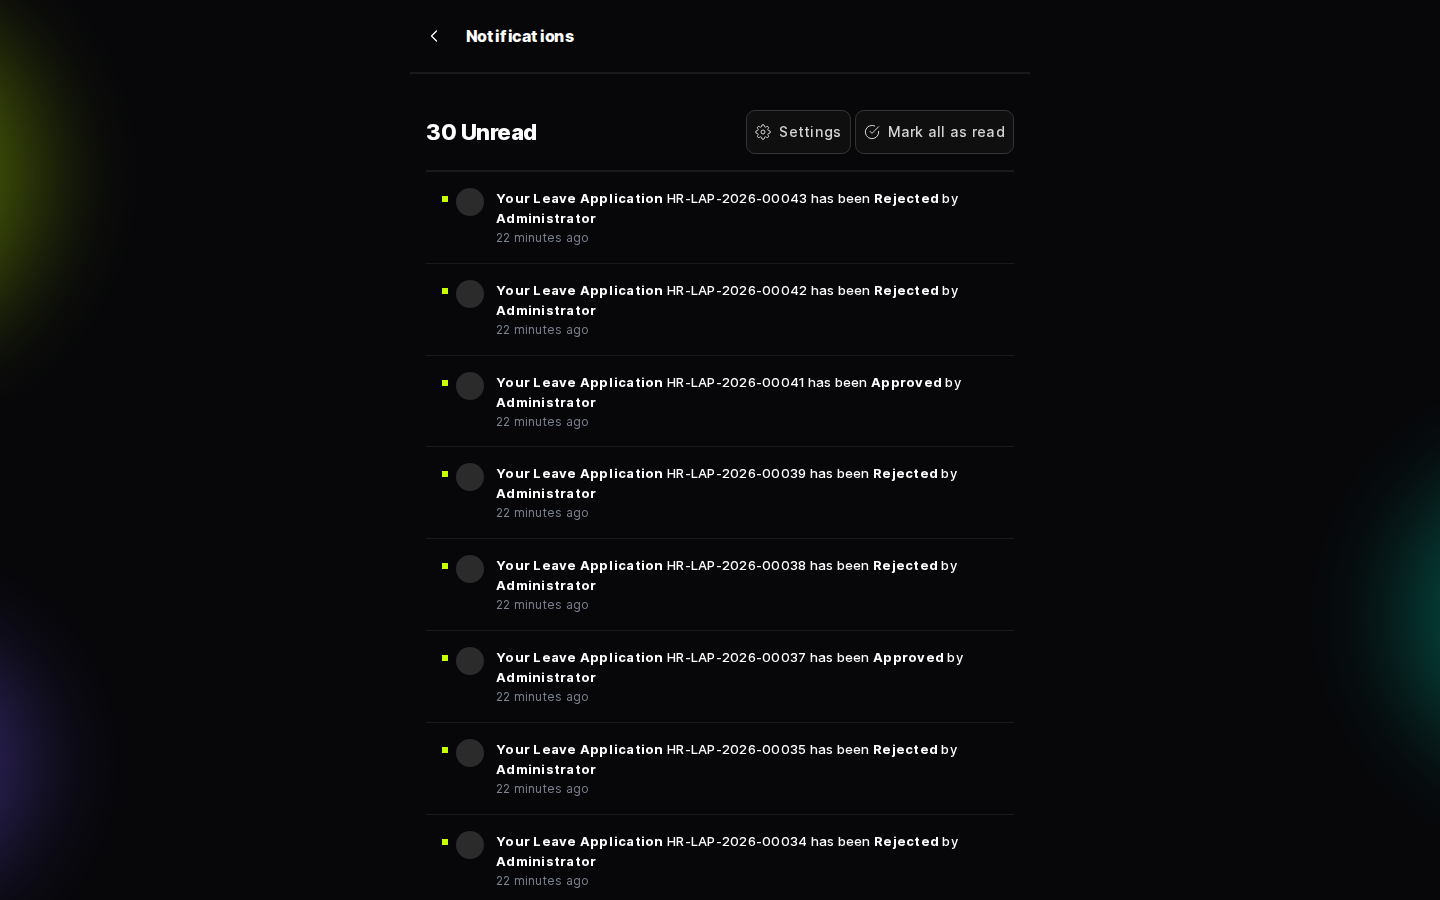
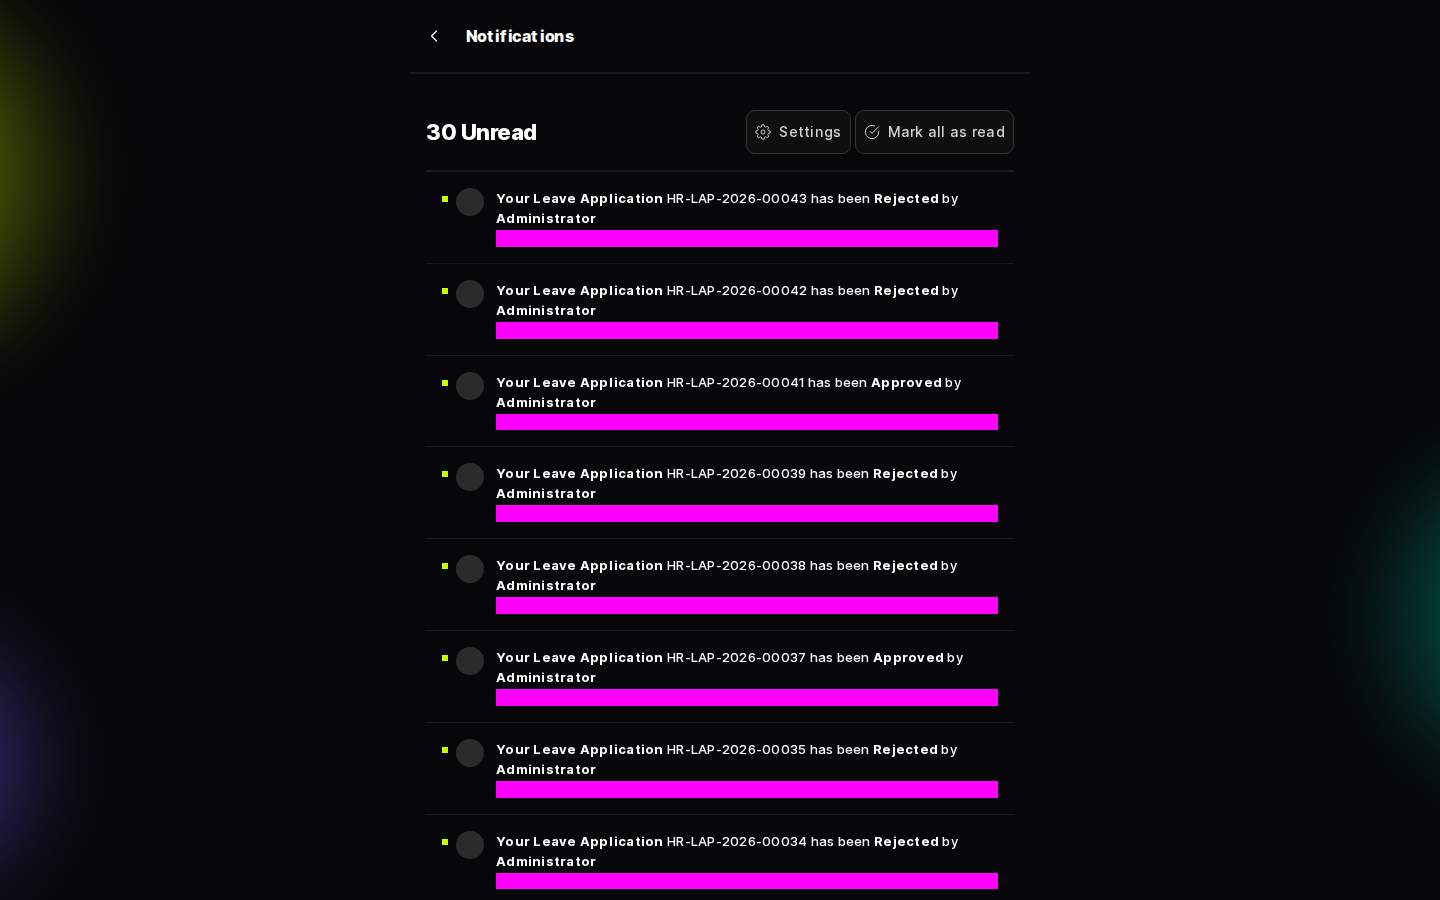
fix(gates): mask self-changing content in the visual gate
The first honest run of the visual gate failed on notifications, both themes.
Not a regression — that screen renders relative timestamps, so "in 4 hours"
becomes "in 5 hours" and its baseline fails an hour after it is shot. A
permanently flaky screen, and a gap a pixel gate has to answer for.

The app marks self-changing elements data-visual-mask and the gate excludes
them from the comparison — a general mechanism rather than a notifications
special case. Baselines re-shot with masking.

Claude-Session: https://claude.ai/code/session_019Ed3TzTzMGzZoKqNSCM3kt

diff --git a/frontend/e2e/visual.spec.js b/frontend/e2e/visual.spec.js
@@ -60,7 +60,14 @@ test("visual: every screen matches its baseline", async () => {
 				try {
 					await page.goto(`${BASE}/hrms${s.path}`, { waitUntil: "networkidle", timeout: 35000 })
 					await settle(page)
-					await expect(page).toHaveScreenshot(name)
+					// Mask self-changing content. The notifications list renders
+					// relative timestamps ("in 4 hours"), so its baseline failed an
+					// hour after it was shot — a permanently flaky screen, not a
+					// regression. Anything the app marks data-visual-mask is
+					// excluded from the comparison.
+					await expect(page).toHaveScreenshot(name, {
+						mask: [page.locator("[data-visual-mask]")],
+					})
 				} catch (e) {
 					// Collect rather than throw, so one regression does not hide the
 					// other forty. The gate prints the whole list and fails once.

diff --git a/frontend/src/views/Notifications.vue b/frontend/src/views/Notifications.vue
@@ -84,7 +84,10 @@
 									<div v-else class="text-sm leading-5 font-normal text-ink-500 italic">
 										{{ fallbackMessage(item) }}
 									</div>
-									<div class="text-xs font-normal text-ink-600">
+									<!-- data-visual-mask: a relative timestamp changes on its own,
+									     so a pixel baseline of it fails an hour later for no reason.
+									     The visual gate masks anything carrying this attribute. -->
+									<div class="text-xs font-normal text-ink-600" data-visual-mask>
 										{{ dayjs(item.creation).fromNow() }}
 									</div>
 								</div>
